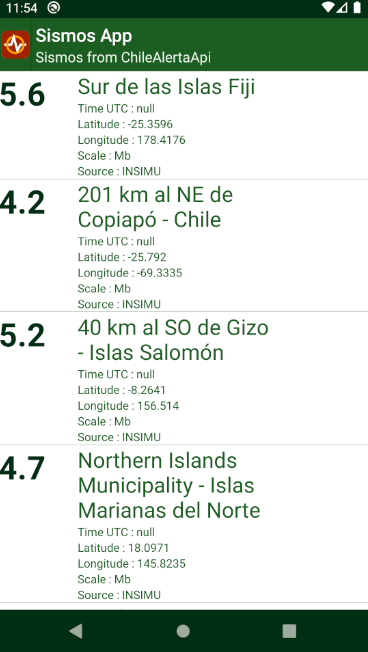
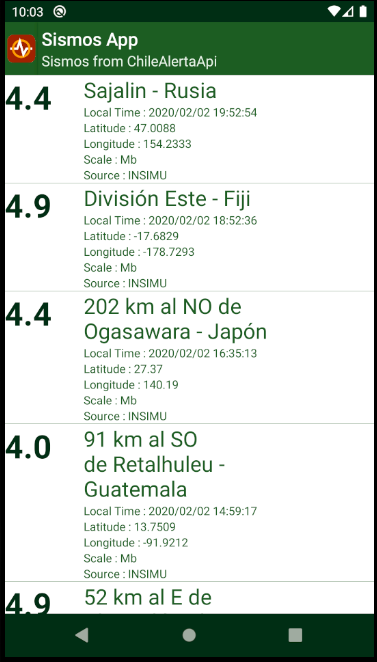
fix(adapters/SismoViewHolder): update the time , using chilean time
refactor(model/Sismo): chileanTime is chilean_time

Changed region(s): [[0.0, 0.0, 1.0, 1.0]]

diff --git a/app/src/main/java/cl/ucn/disc/dsm/sismosapp/model/Sismo.java b/app/src/main/java/cl/ucn/disc/dsm/sismosapp/model/Sismo.java
@@ -33,7 +33,7 @@ public class Sismo {
   /**
    * Chilean Time.
    */
-  public String chileanTime;
+  public String chilean_time;
   /**
    * The Reference.
    */
@@ -78,7 +78,7 @@ public class Sismo {
    * @param state       ,the state.
    * @param utcTime     ,the utc time of the quake.
    * @param localTime   ,the localTime of the quake.
-   * @param chileanTime ,the chilean Time of the quake.
+   * @param chilean_time ,the chilean Time of the quake.
    * @param reference   ,the reference.
    * @param magnitude   ,the magnitude of the quake.
    * @param scale       ,the scale of the quake.
@@ -89,13 +89,13 @@ public class Sismo {
    * @param url         ,the url of the quake.
    * @param source      ,the source of the quake.
    */
-  public Sismo(Integer state, String utcTime, String localTime, String chileanTime,
+  public Sismo(Integer state, String utcTime, String localTime, String chilean_time,
       String reference, Float magnitude, String scale, Float latitude, Float longitude,
       Float depth, Long id, String url, String source) {
     this.state = state;
     this.utcTime = utcTime;
     this.localTime = localTime;
-    this.chileanTime = chileanTime;
+    this.chilean_time = chilean_time;
     this.reference = reference;
     this.magnitude = magnitude;
     this.scale = scale;
@@ -128,7 +128,7 @@ public class Sismo {
    * Get the local Time.
    * @return local time.
    */
-  public String getLocalTime() {
+  public String getLocalTime () {
     return localTime;
   }
 
@@ -136,8 +136,8 @@ public class Sismo {
    * Get the Chilean time.
    * @return Chilean time.
    */
-  public String getChileanTime() {
-    return chileanTime;
+  public String getChilean_time () {
+    return chilean_time;
   }
 
   /**

diff --git a/app/src/main/java/cl/ucn/disc/dsm/sismosapp/activities/adapters/SismoViewHolder.java b/app/src/main/java/cl/ucn/disc/dsm/sismosapp/activities/adapters/SismoViewHolder.java
@@ -48,7 +48,7 @@ public class SismoViewHolder extends RecyclerView.ViewHolder {
     final String longitude = String.valueOf(sismo.getLongitude());
     final String scale = String.valueOf(sismo.getScale());
     final String source = String.valueOf(sismo.getSource());
-    final String timeutc = String.valueOf(sismo.getUtcTime());
+    final String chilean_time = String.valueOf(sismo.getChilean_time());
 
 
 
@@ -64,8 +64,8 @@ public class SismoViewHolder extends RecyclerView.ViewHolder {
         .append(scale).toString());
     this.binding.tvSource.setText(new StringBuilder().append("Source : ")
         .append(source).toString());
-    this.binding.tvChileanDate.setText(new StringBuilder().append("Time UTC : ")
-        .append(timeutc).toString());
+    this.binding.tvChileanDate.setText(new StringBuilder().append("Local Time : ")
+        .append(chilean_time).toString());
 
   }
 

diff --git a/app/src/test/java/cl/ucn/disc/dsm/sismosapp/services/SismosServiceTest.java b/app/src/test/java/cl/ucn/disc/dsm/sismosapp/services/SismosServiceTest.java
@@ -37,6 +37,7 @@ public class SismosServiceTest {
 @Test
 public void testGetSismosApi(){
 
+final int limit = 15;
 
     log.debug("Testing the SismosApiService, requesting Sismos.");
 
@@ -44,7 +45,7 @@ public void testGetSismosApi(){
   final SismosService sismosService = new SismosApiService();
 
   // The List of Sismos.
-  final List<Sismo> sismos = sismosService.getSismos();
+  final List<Sismo> sismos = sismosService.getSismos(limit);
 
     Assertions.assertNotNull(sismos);
     //Assertions.assertEquals(sismos.size(), size, "Error de tamanio");

diff --git a/app/src/main/java/cl/ucn/disc/dsm/sismosapp/services/SingletonSismos.java b/app/src/main/java/cl/ucn/disc/dsm/sismosapp/services/SingletonSismos.java
@@ -41,7 +41,7 @@ public class SingletonSismos {
         sismo.state,
         sismo.utcTime,
         sismo.localTime,
-        sismo.chileanTime,
+        sismo.chilean_time,
         sismo.reference,
         sismo.magnitude,
         sismo.scale,
